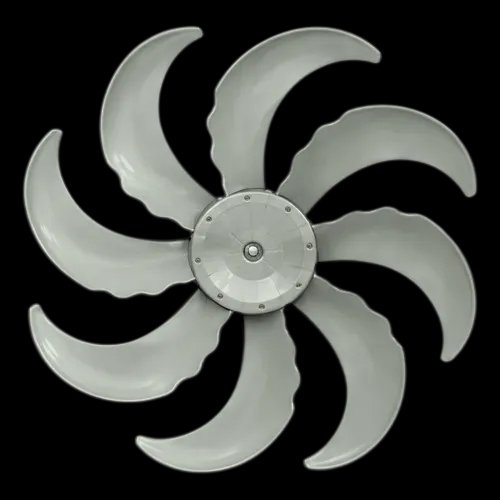
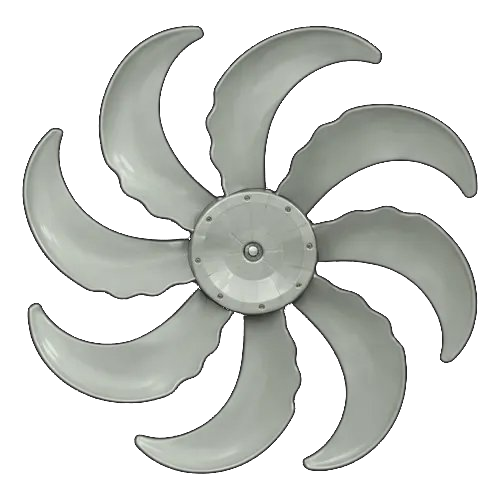
fix: remove fundo preto da fan-blade.png (RGBA transparente)
- Pillow: pixels pretos (brightness < 30) → alpha=0, fade até 90
- PNG agora é RGBA 500x500 com fundo totalmente transparente
- CSS: remove overflow:hidden e filter que causavam artefatos
- opacity 0.35 quando parada, 1.0 quando girando

diff --git a/machctrl-desktop/src/components/panels/FansPanel.tsx b/machctrl-desktop/src/components/panels/FansPanel.tsx
@@ -95,27 +95,24 @@ function FanCard({ fan, onCommand }: { fan: any; onCommand: (c: object) => void 
 
         {/* Fan blade PNG animado */}
         <div style={{
-          width: 64, height: 64, borderRadius: 50, flexShrink: 0,
+          width: 64, height: 64, borderRadius: '50%', flexShrink: 0,
           display: 'flex', alignItems: 'center', justifyContent: 'center',
           background: rpm > 0
-            ? `radial-gradient(circle, hsl(var(--accent) / 0.15), hsl(var(--bg)))`
+            ? 'radial-gradient(circle, hsl(var(--accent) / 0.12), hsl(var(--surface)))'
             : 'hsl(var(--border) / 0.3)',
-          border: `2px solid ${rpm > 0 ? 'hsl(var(--accent) / 0.3)' : 'hsl(var(--border))'}`,
-          boxShadow: rpm > 0 ? `0 0 16px hsl(var(--accent) / 0.2)` : 'none',
-          overflow: 'hidden',
+          border: `2px solid ${rpm > 0 ? 'hsl(var(--accent) / 0.35)' : 'hsl(var(--border))'}`,
+          boxShadow: rpm > 0 ? '0 0 14px hsl(var(--accent) / 0.25)' : 'none',
         }}>
           <img
             ref={imgRef}
             src={fanBladeUrl}
             alt="fan"
             style={{
-              width: 54, height: 54,
+              width: 52, height: 52,
               objectFit: 'contain',
               willChange: 'transform',
-              filter: rpm > 0
-                ? `brightness(1.1) drop-shadow(0 0 4px hsl(var(--accent) / 0.5))`
-                : 'brightness(0.4) grayscale(1)',
-              transition: rpm === 0 ? 'filter 0.5s ease' : 'none',
+              opacity: rpm > 0 ? 1 : 0.35,
+              transition: 'opacity 0.4s ease',
             }}
           />
         </div>